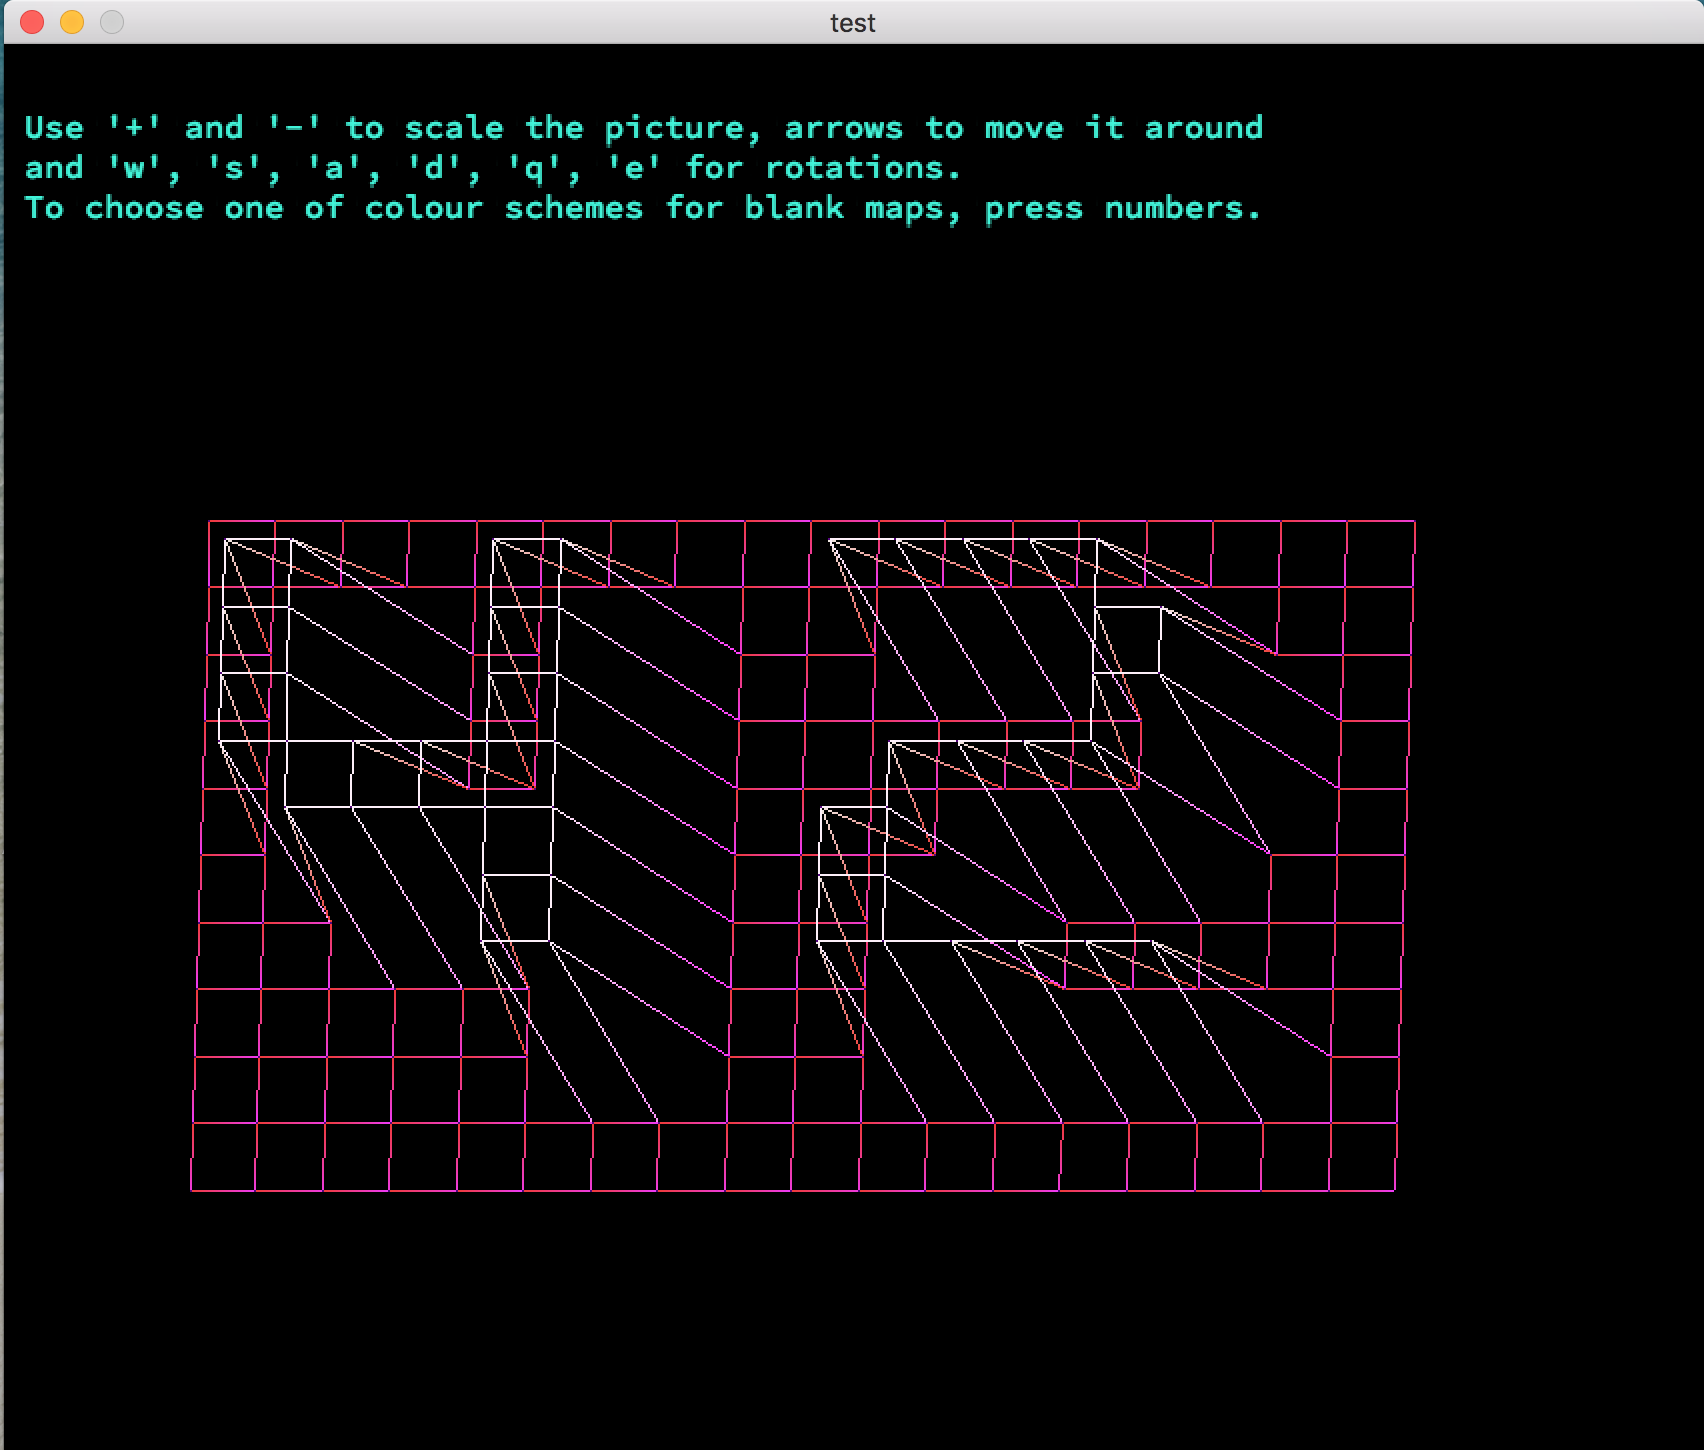
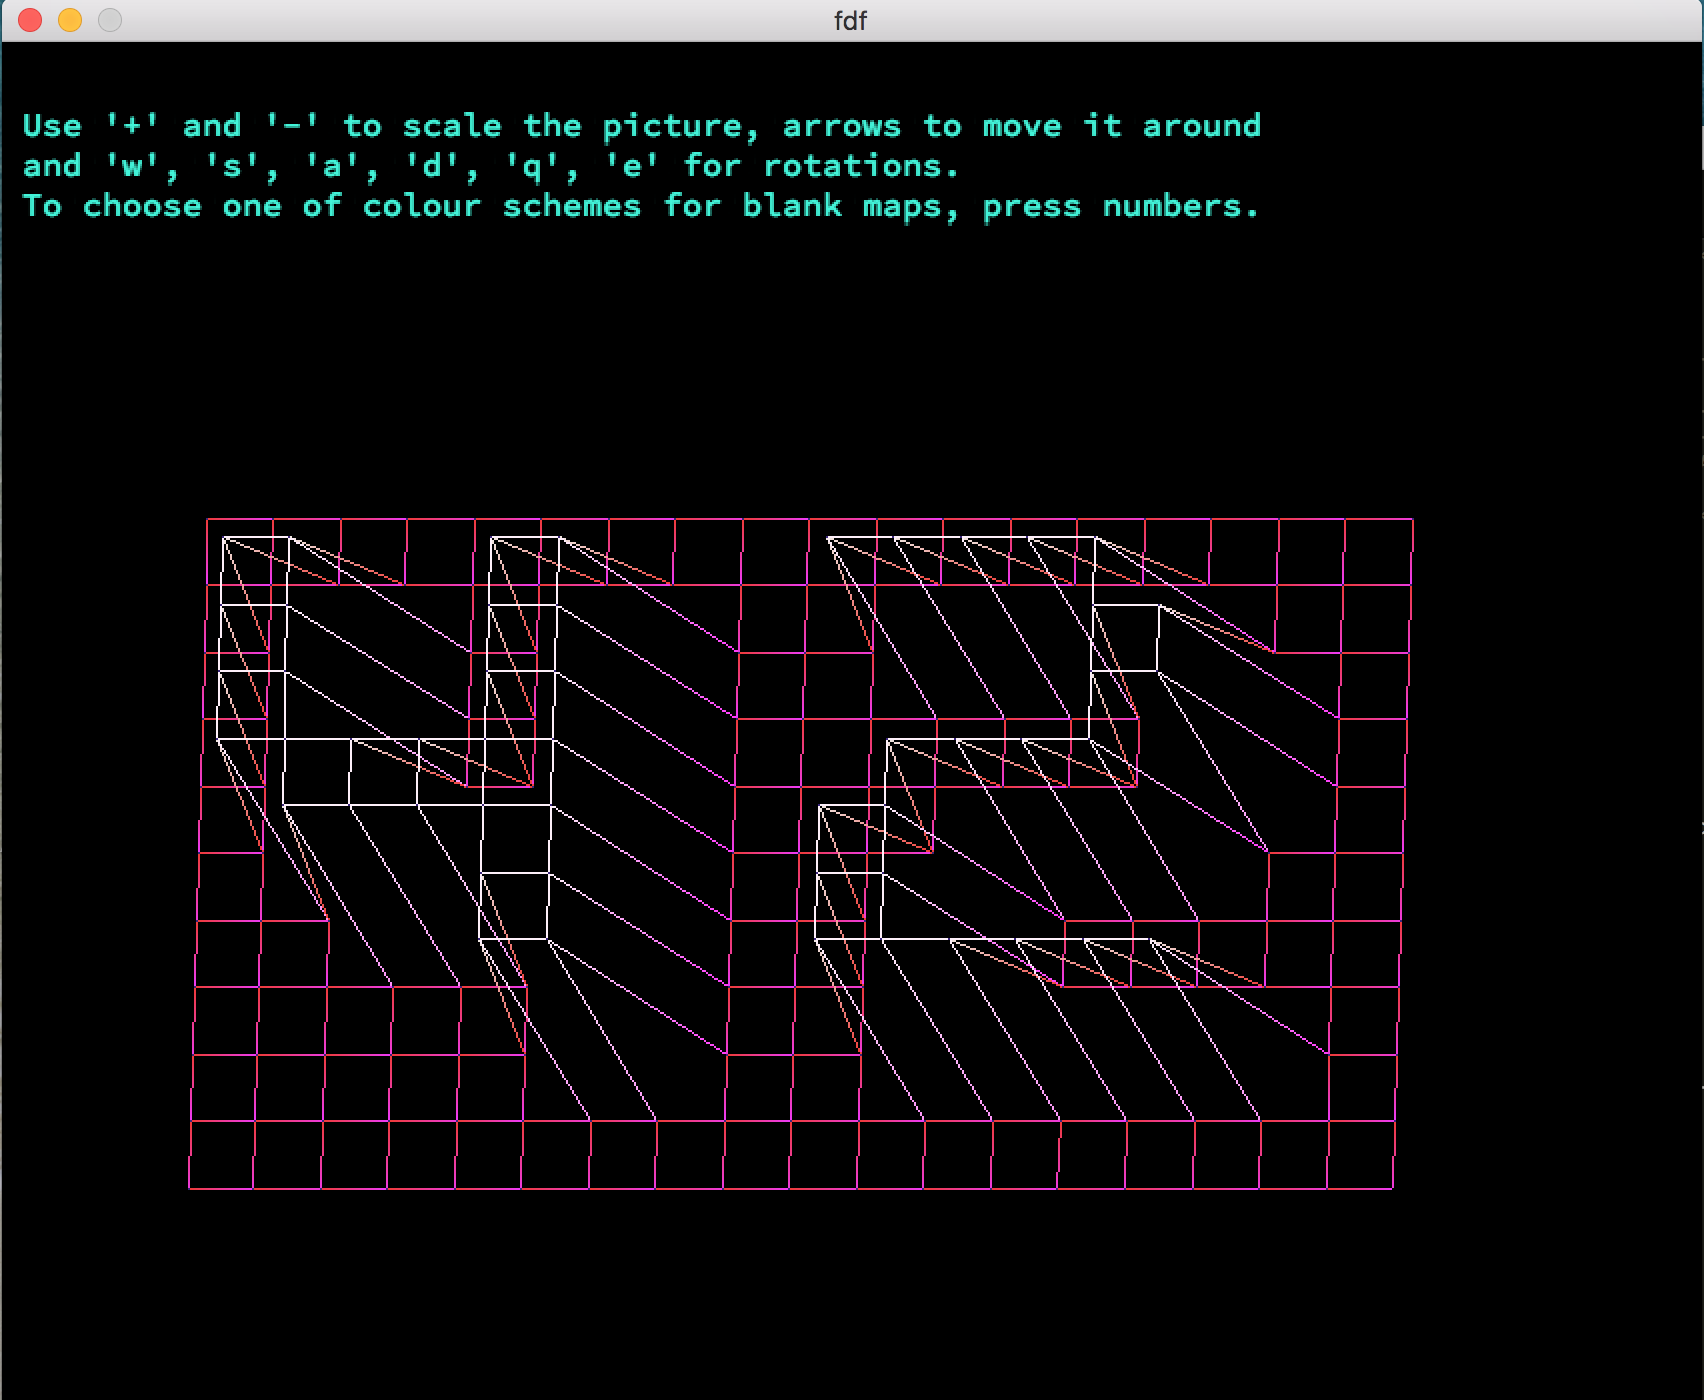
changed image

diff --git a/img_transform_help.c b/img_transform_help.c
@@ -38,7 +38,7 @@ void	manipulate_window(t_coords *c)
 	c->shift_right = (c->win_width / 2) - ((c->size_x * c->сoeff) / 2);
 	c->shift_down = (c->win_length / 2) - ((c->size_y * c->сoeff) / 2);
 	c->mlx_p = mlx_init();
-	c->mlx_nw = mlx_new_window(c->mlx_p, c->win_width, c->win_length, "test");
+	c->mlx_nw = mlx_new_window(c->mlx_p, c->win_width, c->win_length, "fdf");
 }
 
 int		count_diagonal(t_coords *c)
